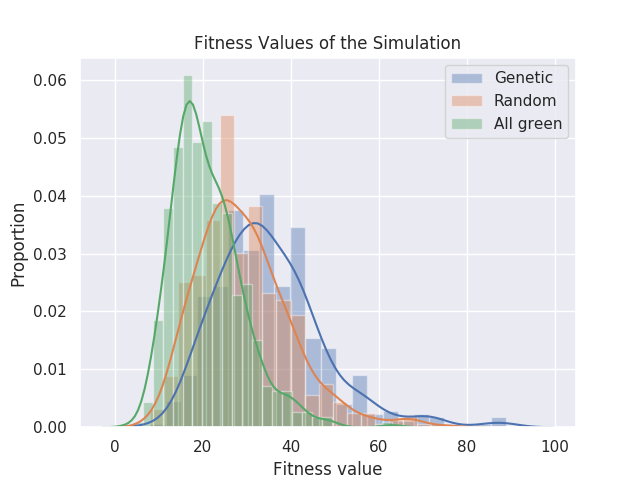
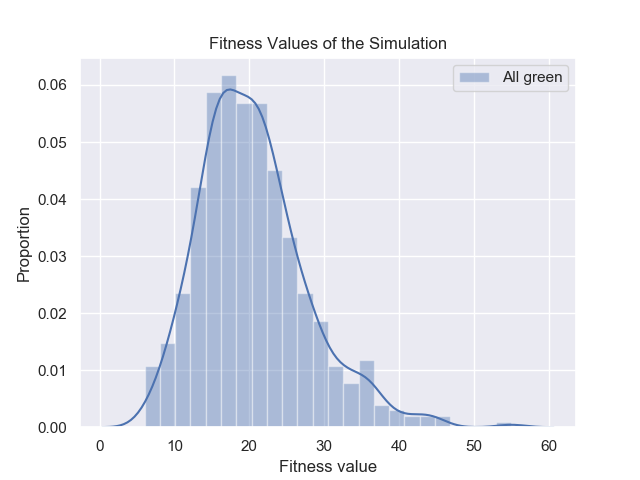
Updated experiments

diff --git a/src/main_run_experiments.py b/src/main_run_experiments.py
@@ -1,0 +1,80 @@
+import seaborn as sns
+import matplotlib.pyplot as plt
+from random import choice
+from city.city import City
+import numpy as np
+import sys
+import json
+sns.set()
+
+CONFIGURATION = 'configuration.json'
+GENE_FILE = '../data/1547994434_best_of_10_generations.npy'
+SIMULATIONS = 500
+
+def run_simulations(city, gene, sim_steps, light_duration_steps, label, title, save_file):
+    average_fitness = []
+    all_fitness = []
+
+    for sim in range(SIMULATIONS):
+        print('\rSimulation: {:4d} of {:d}'.format(sim, SIMULATIONS), end='')
+        city.run(gene, sim_steps, light_duration_steps, sim_time=0)
+        fitness = city.cars_despawned
+        average_fitness.append(fitness)
+        all_fitness.append(fitness)
+        city.clean()
+
+    sns.distplot(all_fitness,label=label)
+    plt.xlabel('Fitness value')
+    plt.ylabel('Proportion')
+    plt.title(title)
+    plt.savefig(save_file)
+    print('Done !')
+
+if __name__ == '__main__':
+    sys.setrecursionlimit(10000)
+
+    with open(CONFIGURATION) as f:
+        data = json.load(f)
+
+    if 'simulation' not in data or 'map' not in data or 'ga' not in data:
+        print('Configuration does not contain all parameters')
+        sys.exit(0)
+
+    city = City.generate(rows=data['map']['size'],
+                         cols=data['map']['size'],
+                         n_intersections=data['map']['intersections'],
+                         max_cars=data['simulation']['max_cars'],
+                         max_cars_spawn=data['simulation']['max_cars_spawn'],
+                         seed=data['map']['seed'])
+
+    # Run
+    best_individual = np.load(GENE_FILE)
+    green_individual = [True for _ in range(len(best_individual))]
+    random_individual = [choice([True, False]) for _ in range(len(best_individual))]
+
+    print('Running city with all lights green...')
+    run_simulations(city,
+                    green_individual,
+                    data['simulation']['sim_steps'],
+                    data['simulation']['light_duration_steps'],
+                    label='All green',
+                    title='Fitness Values of the Simulation With Green Traffic Lights',
+                    save_file='../data/fitness_green_lights.png')
+
+    print('Running city with random lights...')
+    run_simulations(city,
+                    random_individual,
+                    data['simulation']['sim_steps'],
+                    data['simulation']['light_duration_steps'],
+                    label='Random',
+                    title='Fitness Values of the Simulation With Random Traffic Lights',
+                    save_file='../data/fitness_random_lights.png')
+
+    print('Running city with genetic algorithm lights...')
+    run_simulations(city,
+                    best_individual,
+                    data['simulation']['sim_steps'],
+                    data['simulation']['light_duration_steps'], 
+                    label='Genetic',
+                    title='Fitness Values of the Simulation Genetic Traffic Lights',
+                    save_file='../data/fitness_genetic_lights.png')
